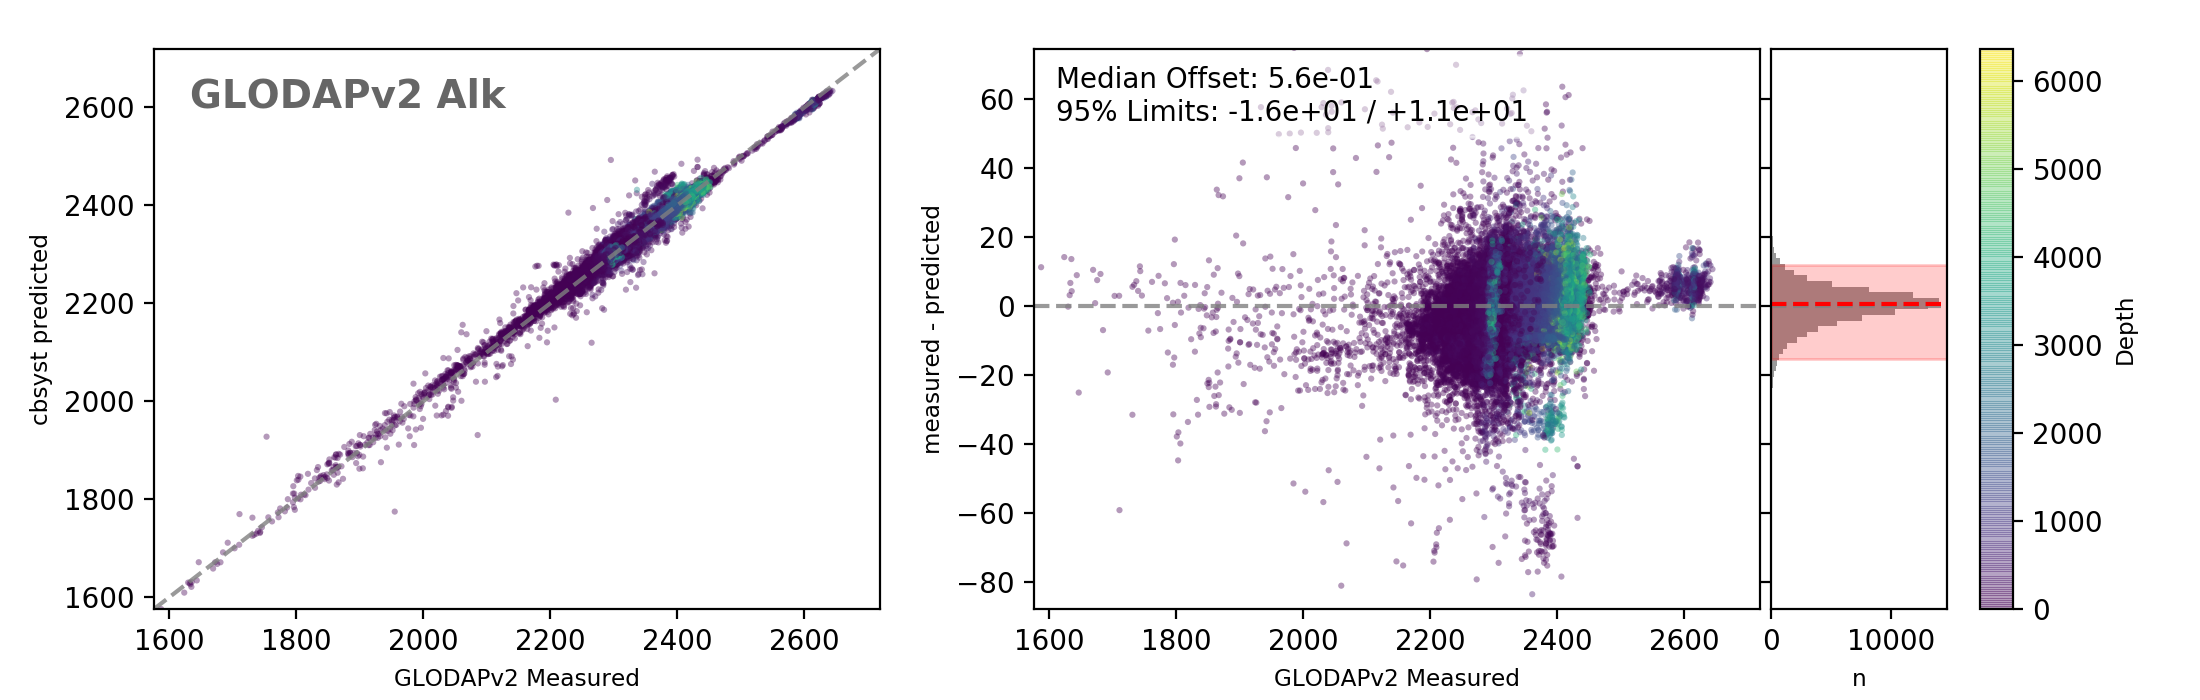
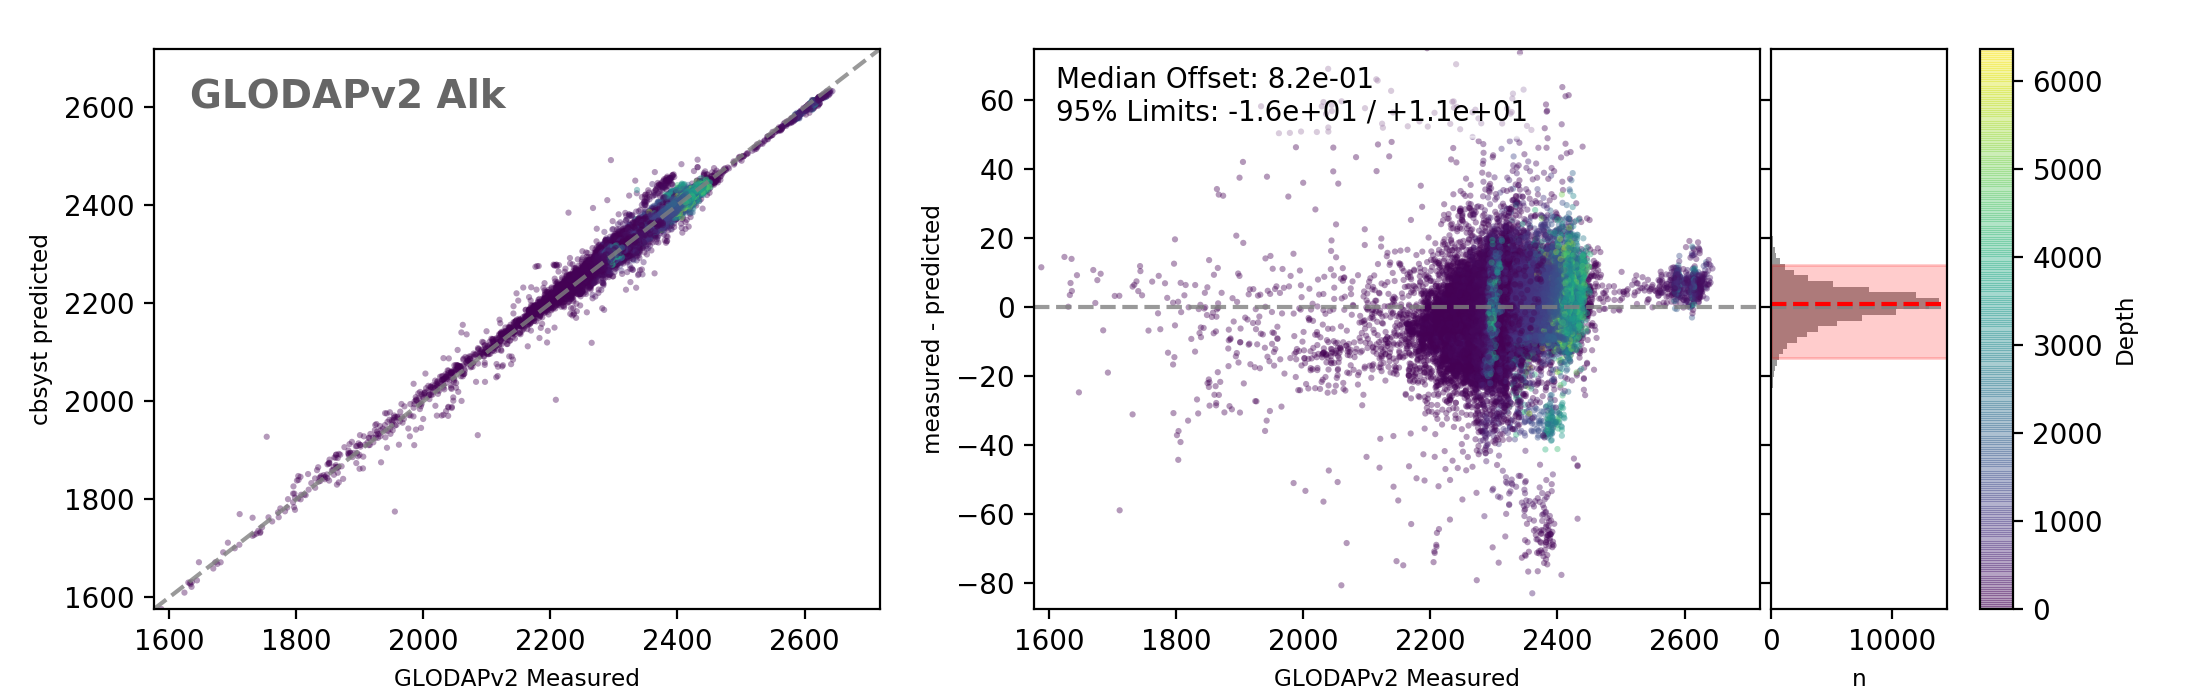
final tweaks to accommodate P correction changes

diff --git a/cbsyst/test_data/GLODAP_data/plot_GLODAPv2_comparison.py b/cbsyst/test_data/GLODAP_data/plot_GLODAPv2_comparison.py
@@ -24,26 +24,21 @@ def GLODAPv2_comparison(figdir='.'):
                       'salinity', 'tco2', 'talk', 'pressure'], inplace=True)
     gd.pressure /= 10  # convert pressure to bar
 
-    # bin pressure data
-    bins = np.linspace(gd.pressure.min(), gd.pressure.max(), 200)
-    centers = bins[:-1] + np.diff(bins)
-    gd.binpressure = pd.cut(gd.pressure, bins, labels=centers, include_lowest=True)
-
     # Do the work...
     print('Calculating pH from DIC and TA...')
-    cpH = cb.Csys(TA=gd.talk, DIC=gd.tco2, T=gd.temperature, S=gd.salinity, P=gd.binpressure)
+    cpH = cb.Csys(TA=gd.talk, DIC=gd.tco2, T=gd.temperature, S=gd.salinity, P=gd.pressure)
     print('   Making plots...')
     fig, axs = cplot(gd.phtsinsitutp, cpH.pH, 'pH', 'Depth', gd.depth)
     fig.savefig(figdir + '/Figures/pH_comparison.png', dpi=200)
 
     print('Calculating TA from pH and DIC...')
-    cTA = cb.Csys(pH=gd.phtsinsitutp, DIC=gd.tco2, T=gd.temperature, S=gd.salinity, P=gd.binpressure)
+    cTA = cb.Csys(pH=gd.phtsinsitutp, DIC=gd.tco2, T=gd.temperature, S=gd.salinity, P=gd.pressure)
     print('   Making plots...')
     fig, ax = cplot(gd.talk, cTA.TA, 'Alk', 'Depth', gd.depth)
     fig.savefig('Figures/TA_comparison.png', dpi=200)
 
     print('Calculating DIC from pH and TA...')
-    cDIC = cb.Csys(pH=gd.phtsinsitutp, TA=gd.talk, T=gd.temperature, S=gd.salinity, P=gd.binpressure)
+    cDIC = cb.Csys(pH=gd.phtsinsitutp, TA=gd.talk, T=gd.temperature, S=gd.salinity, P=gd.pressure)
     print('   Making plots...')
     fig, ax = cplot(gd.tco2, cDIC.DIC, 'DIC', 'Depth', gd.depth)
     fig.savefig('Figures/DIC_comparison.png', dpi=200)

diff --git a/cbsyst/cbsyst.py b/cbsyst/cbsyst.py
@@ -25,6 +25,12 @@ def prescorr(P, Tc, a0, a1, a2, b0, b1):
 
 
 def get_Ks(ps):
+    """
+    Helper function to calculate Ks.
+
+    If ps.Ks is a dict, those Ks are used
+    transparrently, with no pressure modification.
+    """
     if isinstance(ps.Ks, dict):
         Ks = Bunch(ps.Ks)
     else:
@@ -41,6 +47,7 @@ def get_Ks(ps):
             # calculate Ca and Mg specific Ks
             Ks = MyAMI_K_calc_multi(ps.T, ps.S, ps.Ca, ps.Mg)
 
+        # Pressure correction
         if ps.P is not None:
             # parameters from Table 5 of Millero 2007 (doi:10.1021/cr0503557)
             ppar = {'K1': [-25.50, 0.1271, 0, -3.08, 0.0877],

diff --git a/README.md b/README.md
@@ -33,13 +33,13 @@ The code used to process the raw GLODAPv2 data is available [here](cbsyst/test_d
 Next, calcululate the carbonate system from sets of two of the measured carbonate parameters, and compare the calculated third parameter to the measured third parameter (i.e. calculate Alkalinity from pH and DIC, then compared calculated vs. measured Alkalinities). The code for making these comparison plots is [here](cbsyst/test_data/GLODAP_data/plot_GLODAPv2_comparison.py).
 
 #### Results:
-Predicted pH (from DIC and Alkalinity) is offset from measured values by -0.0015 (-0.032/+0.035).
+Predicted pH (from DIC and Alkalinity) is offset from measured values by -0.0021 (-0.032/+0.035).
 ![Calculated vs Measured pH](cbsyst/test_data/GLODAP_data/Figures/pH_comparison.png)
 
-Predicted Alkalinity (from pH and DIC) is offset from measured values by 0.56 (-16/+11) umol/kg.
+Predicted Alkalinity (from pH and DIC) is offset from measured values by 0.82 (-16/+11) umol/kg.
 ![Calculated vs Measured TA](cbsyst/test_data/GLODAP_data/Figures/TA_comparison.png)
 
-Predicted DIC (from pH and Alkalinity) is offset from measured values by -0.54 (-11/+15) umol/kg.
+Predicted DIC (from pH and Alkalinity) is offset from measured values by -0.80 (-11/+15) umol/kg.
 ![Calculated vs Measured DIC](cbsyst/test_data/GLODAP_data/Figures/DIC_comparison.png)
 
 Reported statistics are median ±95% confidence intervals extracted from the residuals (n = 97,963).
